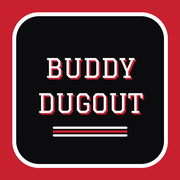
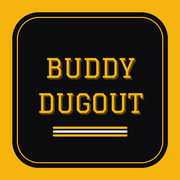
2.1: Buddy Dugout brand in black and gold
Claude-Session: https://claude.ai/code/session_01QhppGADdBH67RLowEFa6MX

diff --git a/v21/index.html b/v21/index.html
@@ -19,7 +19,7 @@
   color-scheme:dark;
   --bg:#0c0c0e; --surface:#17171a; --surface2:#202024; --line:#2e2e33;
   --fg:#f6f4f1; --muted:#a6a6ad; --done:#5c5c63;
-  --red:#c8202f; --red-deep:#8f141f; --red-ink:#e0323f; --on-red:#ffffff; --team2:#ffffff; --white:#ffffff; --ink:#0c0c0e;
+  --red:#f6b40e; --red-deep:#8a6200; --red-ink:#f6b40e; --on-red:#0c0c0e; --team2:#ffffff; --gold:#f6b40e; --white:#ffffff; --ink:#0c0c0e;
   --grass:#2f5a2c; --grass2:#3b6b36; --clay:#a9643d; --chalk:#f4f2ec;
   --varsity:"Graduate","Rockwell",Georgia,serif;
   --display:"Big Shoulders Display","Arial Narrow",Impact,sans-serif;
@@ -190,7 +190,7 @@ button.chip{color:var(--fg)}
 .live.on{background:#3fbf6a}
 #gate{min-height:100%;display:flex;align-items:center;justify-content:center;padding:24px 16px}
 #gate .card{max-width:380px;width:100%;display:flex;flex-direction:column;gap:14px;text-align:center}
-#gate h2{margin:0;font-family:var(--varsity);font-weight:400;font-size:26px;color:var(--white);text-shadow:2px 2px 0 var(--red-ink)}
+#gate h2{margin:0;font-family:var(--varsity);font-weight:400;font-size:30px;color:var(--gold);text-shadow:2px 2px 0 #000,3px 3px 0 #5c4300}
 #gate input{background:var(--surface);border:1px solid var(--line);border-radius:12px;color:var(--fg);font:600 18px var(--body);padding:14px;text-align:center}
 #gate .msg{color:var(--muted);margin:0;font-size:14px}
 /* ---------- 2.1 ---------- */
@@ -231,7 +231,7 @@ button.chip{color:var(--fg)}
 .rrow .x{background:transparent;border:1px solid var(--line);color:var(--muted);height:34px;border-radius:8px;padding:0;font-size:18px}
 .rhead{display:grid;grid-template-columns:1fr 64px 78px 34px;gap:6px;font-size:11px;font-weight:700;letter-spacing:.1em;color:var(--muted);text-transform:uppercase}
 .page{min-height:100%;max-width:480px;margin:0 auto;padding:16px 16px 40px;display:flex;flex-direction:column;gap:16px}
-.page h2{margin:0;font:400 26px var(--varsity);color:var(--white)}
+.page h2{margin:0;font:400 26px var(--varsity);color:var(--gold);text-shadow:2px 2px 0 #000}
 .page h3{margin:0;font:900 20px var(--display);text-transform:uppercase;letter-spacing:.03em}
 .codebox{background:var(--surface);border:2px dashed var(--red-ink);border-radius:12px;padding:14px;text-align:center;font:700 22px var(--body);letter-spacing:.08em;overflow-wrap:anywhere}
 .or{display:flex;align-items:center;gap:10px;color:var(--muted);font-size:13px}
@@ -274,7 +274,7 @@ button.chip{color:var(--fg)}
 <div id="setup" hidden><div class="page">
   <h2>NEW TEAM</h2>
   <div class="form">
-    <label>Team name<input id="sName" type="text" maxlength="24" placeholder="Lookouts" autocomplete="off"></label>
+    <label>Team name<input id="sName" type="text" maxlength="24" placeholder="Rockets" autocomplete="off"></label>
   </div>
   <h3>Team colors</h3>
   <div class="form"><label>Main color</label></div><div class="swatches" id="sC1"></div>
@@ -837,7 +837,7 @@ $("app").hidden=false; $("loader").hidden=true;
 function applyTeam(){
   const nm=(TEAM.name||"Team").trim()||"Team";
   $("teamName").textContent=nm.toUpperCase(); document.title=nm+" · Buddy Dugout";
-  applyTheme(TEAM.colors);
+  applyTheme(TEAM.colors||CLASSIC);
 }
 $("nextGame").onclick=()=>showTab("games");
 
@@ -936,7 +936,7 @@ $("gfDelete").onclick=()=>{const b=$("gfDelete");
 let tsRows=[], tsColors=null;
 function openTeamSheet(){
   $("tsName").value=TEAM.name||"";
-  tsColors={...(TEAM.colors||{p:"#c8202f",s:"#ffffff"})};
+  tsColors={...(TEAM.colors||CLASSIC)};
   colorPicker($("tsC1"),tsColors.p,v=>{tsColors.p=v;applyTheme(tsColors)});
   colorPicker($("tsC2"),tsColors.s,v=>{tsColors.s=v;applyTheme(tsColors)},true);
   tsRows=LINEUP.map((p,i)=>({id:i,name:p[0],num:p[1],hidden:!!p[2]}));
@@ -952,7 +952,7 @@ function drawTsRows(){
     row.querySelector(".x").onclick=()=>{ if(r.id==null)tsRows.splice(i,1); else r.hidden=true; drawTsRows() };
     box.appendChild(row)});
 }
-function closeTeamSheet(){$("teamSheet").hidden=true; applyTheme(TEAM.colors)}
+function closeTeamSheet(){$("teamSheet").hidden=true; applyTheme(TEAM.colors||CLASSIC)}
 $("gearBtn").onclick=openTeamSheet; $("tsCancel").onclick=closeTeamSheet; $("tsScrim").onclick=closeTeamSheet;
 $("tsAddRow").onclick=()=>{tsRows.push({id:null,name:"",num:"",hidden:false});drawTsRows();const ins=$("tsRows").querySelectorAll(".rrow input[type=text]");ins[ins.length-2]&&ins[ins.length-2].focus()};
 $("tsSave").onclick=async()=>{
@@ -1021,7 +1021,8 @@ const CODE_RE=/^[a-z0-9]{12,40}$/i;
 function b64dec(x){x=x.replace(/-/g,"+").replace(/_/g,"/");while(x.length%4)x+="=";return decodeURIComponent(escape(atob(x)))}
 
 /* ---- shared helpers (theme, colors, roster parsing) ---- */
-const SWATCH=["#c8202f","#8a1538","#e8622a","#f2b705","#1f7a3a","#0e7c86","#1d4fb8","#14285a","#5b2a86","#1a1a1d","#8a8d93","#ffffff"];
+const CLASSIC={p:"#c8202f",s:"#ffffff"};
+const SWATCH=["#c8202f","#8a1538","#e8622a","#f6b40e","#1f7a3a","#0e7c86","#1d4fb8","#14285a","#5b2a86","#1a1a1d","#8a8d93","#ffffff"];
 function hexRgb(h){h=h.replace("#","");if(h.length===3)h=h.split("").map(c=>c+c).join("");const n=parseInt(h,16);return[(n>>16)&255,(n>>8)&255,n&255]}
 function rgbHex(r){return"#"+r.map(v=>Math.round(Math.max(0,Math.min(255,v))).toString(16).padStart(2,"0")).join("")}
 function lum(h){const c=hexRgb(h).map(v=>{v/=255;return v<=.03928?v/12.92:Math.pow((v+.055)/1.055,2.4)});return .2126*c[0]+.7152*c[1]+.0722*c[2]}
@@ -1029,7 +1030,7 @@ function contrast(a,b){const x=lum(a),y=lum(b);return(Math.max(x,y)+.05)/(Math.m
 function mix(a,b,t){const x=hexRgb(a),y=hexRgb(b);return rgbHex(x.map((v,i)=>v+(y[i]-v)*t))}
 function readableOn(bg,c){let t=0;while(contrast(c,bg)<3.2&&t<1){t+=.1;c=mix(c,lum(bg)>.4?"#000000":"#ffffff",t)}return c}
 function applyTheme(c){
-  const p=(c&&/^#[0-9a-f]{6}$/i.test(c.p||""))?c.p:"#c8202f", s2=(c&&/^#[0-9a-f]{6}$/i.test(c.s||""))?c.s:"#ffffff";
+  const p=(c&&/^#[0-9a-f]{6}$/i.test(c.p||""))?c.p:"#f6b40e", s2=(c&&/^#[0-9a-f]{6}$/i.test(c.s||""))?c.s:"#ffffff";
   const r=document.documentElement.style, bg="#17171a";
   r.setProperty("--red",p); r.setProperty("--red-deep",mix(p,"#000000",.3));
   r.setProperty("--on-red",contrast(p,"#ffffff")>=contrast(p,"#0c0c0e")?"#ffffff":"#0c0c0e");
@@ -1074,7 +1075,7 @@ function alertMsg(m){let t=document.getElementById("toast"); if(!t){t=document.c
 function showSetup(){
   ["loader","gate","app","ready"].forEach(id=>document.getElementById(id).hidden=true);
   const $$=id=>document.getElementById(id); $$("setup").hidden=false; scrollTo(0,0);
-  let rows=[], colors={p:"#c8202f",s:"#ffffff"};
+  let rows=[], colors={p:"#f6b40e",s:"#ffffff"};
   const prev=()=>{const pv=$$("sPrev");pv.textContent=($$("sName").value.trim()||"Team name").toUpperCase();applyTheme(colors);
     pv.style.color=getComputedStyle(document.documentElement).getPropertyValue("--team2");pv.style.textShadow="2px 2px 0 "+getComputedStyle(document.documentElement).getPropertyValue("--red-ink");pv.style.borderColor=colors.p};
   colorPicker($$("sC1"),colors.p,v=>{colors.p=v;prev()}); colorPicker($$("sC2"),colors.s,v=>{colors.s=v;prev()},true);
@@ -1129,13 +1130,13 @@ function showGate(msg){
   try{firebase.initializeApp(FB); db=firebase.database(); ref=db.ref("teams/"+code)}catch(e){}
   const RK="dugout-roster@"+code, MK="dugout-meta@"+code;
   let meta={}; try{meta=JSON.parse(localStorage.getItem(MK))||{}}catch(e){}
-  applyTheme(meta.colors);
+  applyTheme(meta.colors||CLASSIC);
   let cached=null; try{cached=JSON.parse(localStorage.getItem(RK))}catch(e){}
   let booted=false, used=null;
   const go=(r,init)=>{if(booted)return; booted=true; used=JSON.stringify(r); boot(r,{code,ref,db,init,name:meta.name,colors:meta.colors})};
   const metaOnce=()=>Promise.race([Promise.all([ref.child("name").once("value"),ref.child("colors").once("value")]).then(([n,c])=>{
       const m={name:n.val()||meta.name||""}; try{m.colors=c.val()?JSON.parse(c.val()):null}catch(e){m.colors=null}
-      meta=m; try{localStorage.setItem(MK,JSON.stringify(m))}catch(e){} applyTheme(m.colors)}),new Promise(r=>setTimeout(r,2500))]).catch(()=>{});
+      meta=m; try{localStorage.setItem(MK,JSON.stringify(m))}catch(e){} applyTheme(m.colors||CLASSIC)}),new Promise(r=>setTimeout(r,2500))]).catch(()=>{});
   if(!ref){ if(cached&&cached.length)go(cached,null); else showGate("Can't reach the team database. Check your connection, then pull down to retry."); return }
   const stateOnce=()=>Promise.race([ref.child("state").once("value").then(s=>s.val()||{}),new Promise(r=>setTimeout(()=>r(null),2500))]).catch(()=>null);
   if(cached&&cached.length) Promise.all([stateOnce(),metaOnce()]).then(([st])=>go(cached,st));
